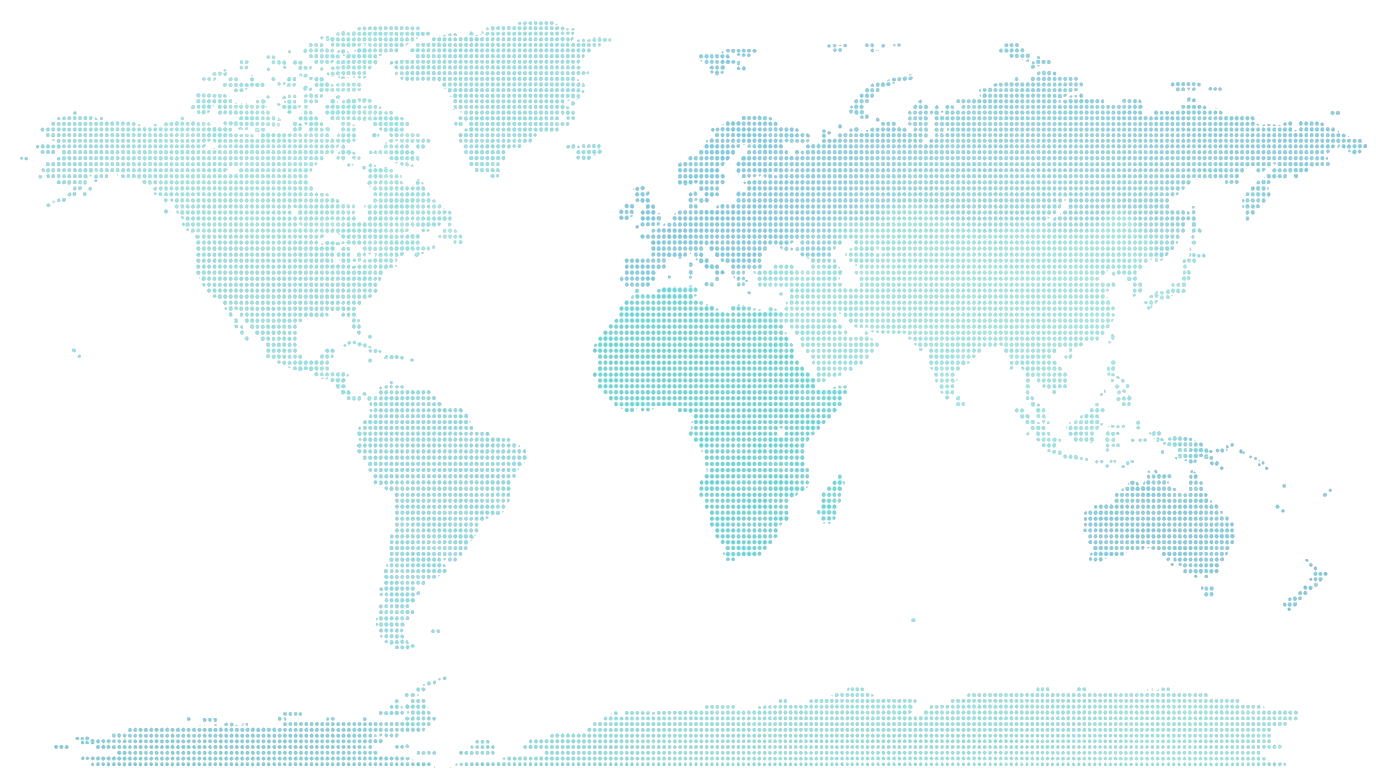
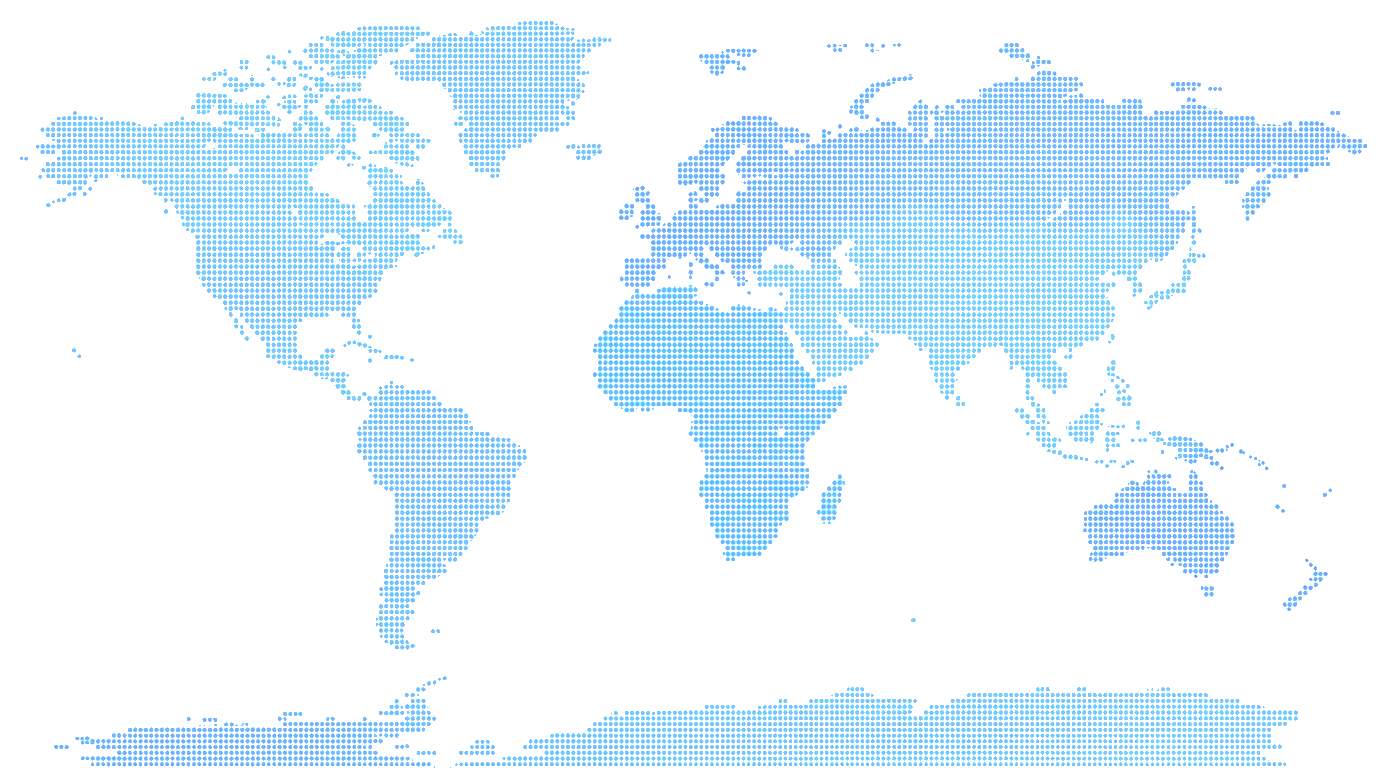
improved UI of Map Effected in the Landing Page.

diff --git a/frontend/src/app/page.tsx b/frontend/src/app/page.tsx
@@ -640,26 +640,7 @@ export default function Page({
                 </linearGradient>
               </defs>
 
-              {/* Arcs linking continents */}
-              <g stroke="url(#pageHeroLineGrad)" strokeWidth="1.2" strokeLinecap="round" className="opacity-80 dark:opacity-60">
-                {/* Canada (180, 155) to UK (460, 150) */}
-                <path d="M 180 155 Q 320 80, 460 150" />
-                {/* UK (460, 150) to Japan (830, 165) */}
-                <path d="M 460 150 Q 640 60, 830 165" />
-                {/* UK (460, 150) to India (650, 270) */}
-                <path d="M 460 150 Q 560 210, 650 270" />
-                {/* Canada (180, 155) to Brazil (270, 345) */}
-                <path d="M 180 155 Q 195 250, 270 345" />
-                {/* Brazil (270, 345) to India (650, 270) */}
-                <path d="M 270 345 Q 460 380, 650 270" />
-                {/* India (650, 270) to Australia (840, 375) */}
-                <path d="M 650 270 Q 755 320, 840 375" />
-                {/* Japan (830, 165) to Australia (840, 375) */}
-                <path d="M 830 165 Q 870 270, 840 375" />
-                {/* Subtle secondary connector from Brazil to Africa junction */}
-                <path d="M 270 345 Q 380 340, 490 350" />
-                <path d="M 490 350 Q 570 320, 650 270" />
-              </g>
+              
 
               {/* Static junction intersection nodes (calm, no blinkers) */}
               <g fill="#0284c7" className="opacity-60 dark:opacity-80">
